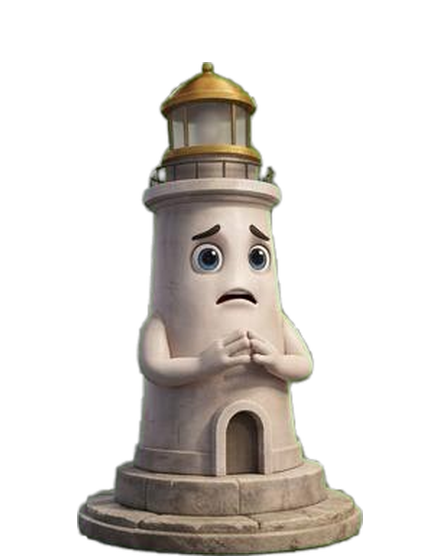
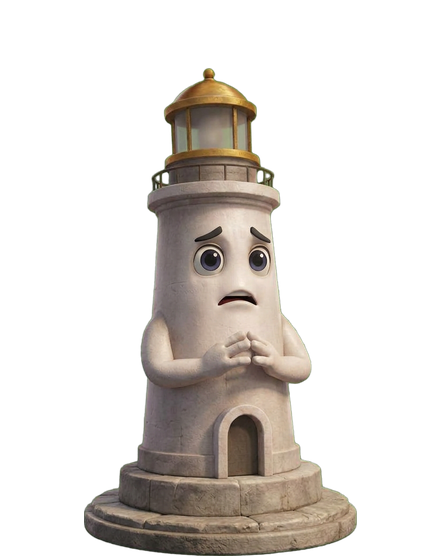
Immagini di Nano Banana: sfondi per ogni dispositivo (scuro e chiaro) e sette pose di Luma nuove; sfondi di sistema a più misure
Claude-Session: https://claude.ai/code/session_01VnBgzVWwMfYhH3oySQLrtR

Changed region(s): [[0.1773, 0.0911, 0.8273, 1.0]]

diff --git a/tools/genera_immagini.py b/tools/genera_immagini.py
@@ -4,10 +4,12 @@ La chiave di Google resta sul tuo computer (variabile GEMINI_API_KEY): non viene
 Uso:  python3 genera.py --prova     (fa UNA sola immagine per controllare che tutto funzioni)
       python3 genera.py             (fa tutte quelle che mancano)
       python3 genera.py sfondi      (solo gli sfondi)   |   python3 genera.py pose   (solo le pose)"""
-import base64, json, os, sys, time, urllib.request, urllib.error, zipfile
+import base64, json, os, subprocess, sys, time, urllib.request, urllib.error, zipfile
 
-CHIAVE = os.environ.get("GEMINI_API_KEY", "").strip()
-MODELLO = os.environ.get("MODELLO", "gemini-3-pro-image-preview")      # «Nano Banana Pro»: arriva fino a 4K. Alternativa piu' economica: gemini-2.5-flash-image
+CHIAVE = os.environ.get("GEMINI_API_KEY", "").strip()                   # solo se usi --aistudio (il servizio a prepagamento di AI Studio)
+USA_AISTUDIO = "--aistudio" in sys.argv
+MODELLO = os.environ.get("MODELLO", "gemini-nano-banana-2.1")           # il modello che su Vertex AI ha gia' funzionato per Luca
+REGIONE = os.environ.get("REGIONE", "global")
 QUI = os.path.dirname(os.path.abspath(__file__)); RIF = os.path.join(QUI, "riferimenti"); OUT = os.path.join(QUI, "uscita")
 SFONDI = [("pc-tv-16x9", "16:9", "4K"), ("pc-tablet-3x2", "3:2", "2K"), ("schermo-largo-21x9", "21:9", "2K"), ("tablet-verticale-3x4", "3:4", "2K"), ("telefono-9x16", "9:16", "2K"), ("orologio-quadrato", "1:1", "2K")]
 NOTE_FORMATO = {"pc-tv-16x9": "Per computer e televisione.", "pc-tablet-3x2": "Per computer e tablet.", "schermo-largo-21x9": "Per schermo molto largo: il logo resta al centro, la scena si allarga ai lati.",
@@ -20,14 +22,35 @@ POSE = [("neutra", "in posa neutra, ferma e serena, braccia lungo i fianchi"), (
 def immagine_b64(nome):
     with open(os.path.join(RIF, nome), "rb") as f: return base64.b64encode(f.read()).decode()
 
+_token = {"v": None}
+def gcloud(*args):
+    r = subprocess.run(["gcloud"] + list(args), capture_output=True, text=True)
+    if r.returncode != 0: raise RuntimeError((r.stderr or r.stdout).strip()[:300])
+    return r.stdout.strip()
+def token(rinnova=False):
+    if rinnova or not _token["v"]: _token["v"] = gcloud("auth", "print-access-token")
+    return _token["v"]
+def progetto():
+    return os.environ.get("PROGETTO") or gcloud("config", "get-value", "project")
+
 def chiedi(testo, riferimenti, rapporto, qualita):
-    parti = [{"text": testo}] + [{"inline_data": {"mime_type": "image/jpeg", "data": immagine_b64(r)}} for r in riferimenti]
-    corpo = {"contents": [{"parts": parti}], "generationConfig": {"responseModalities": ["IMAGE"], "imageConfig": {"aspectRatio": rapporto, "imageSize": qualita}}}
-    if "2.5" in MODELLO: corpo["generationConfig"]["imageConfig"].pop("imageSize")     # il modello economico non sceglie la qualita'
-    rq = urllib.request.Request("https://generativelanguage.googleapis.com/v1beta/models/%s:generateContent" % MODELLO, data=json.dumps(corpo).encode(),
-                                headers={"Content-Type": "application/json", "x-goog-api-key": CHIAVE})
+    parti = [{"text": testo}] + [{"inlineData": {"mimeType": "image/jpeg", "data": immagine_b64(r)}} for r in riferimenti]
+    cfg = {"responseModalities": ["TEXT", "IMAGE"], "imageConfig": {"aspectRatio": rapporto, "imageSize": qualita}}
+    corpo = {"contents": [{"role": "user", "parts": parti}], "generationConfig": cfg}
+    q = os.environ.get("QUALITA", "").strip()
+    if q.lower() in ("nessuna", "no"): cfg["imageConfig"].pop("imageSize")          # se il modello non accetta la dimensione, la tolgo
+    elif q: cfg["imageConfig"]["imageSize"] = q
+    if "2.5" in MODELLO: cfg["imageConfig"].pop("imageSize", None)
+    if USA_AISTUDIO:
+        url = "https://generativelanguage.googleapis.com/v1beta/models/%s:generateContent" % MODELLO
+        intest = lambda: {"Content-Type": "application/json", "x-goog-api-key": CHIAVE}
+    else:
+        host = "aiplatform.googleapis.com" if REGIONE == "global" else "%s-aiplatform.googleapis.com" % REGIONE
+        url = "https://%s/v1/projects/%s/locations/%s/publishers/google/models/%s:generateContent" % (host, progetto(), REGIONE, MODELLO)
+        intest = lambda: {"Content-Type": "application/json", "Authorization": "Bearer " + token()}
     for tentativo in range(4):
         try:
+            rq = urllib.request.Request(url, data=json.dumps(corpo).encode(), headers=intest())
             with urllib.request.urlopen(rq, timeout=300) as r: d = json.loads(r.read().decode())
             for c in d.get("candidates", []):
                 for p in c.get("content", {}).get("parts", []):
@@ -35,25 +58,35 @@ def chiedi(testo, riferimenti, rapporto, qualita):
                     if dati: return base64.b64decode(dati["data"])
             print("   nessuna immagine nella risposta:", json.dumps(d)[:300]); return None
         except urllib.error.HTTPError as e:
-            msg = e.read().decode(errors="replace")[:400]
+            msg = e.read().decode(errors="replace")[:500]
+            if e.code == 401 and not USA_AISTUDIO: print("   rinnovo il token…"); token(True); continue
             if e.code in (429, 500, 503): print("   il servizio e' occupato, riprovo tra poco…"); time.sleep(20 * (tentativo + 1)); continue
             print("   ERRORE %s: %s" % (e.code, msg)); return None
         except Exception as e:
-            print("   errore di rete:", e); time.sleep(10)
+            print("   errore:", e); time.sleep(10)
     return None
 
+errori_di_fila = 0
 def lavoro(nome, testo, rif, rapporto, qualita):
+    global errori_di_fila
     percorso = os.path.join(OUT, nome + ".png")
     if os.path.exists(percorso): print("gia' fatta:", nome); return True
+    if errori_di_fila >= 3: print("Mi fermo: 3 errori di fila. Controlla il messaggio qui sopra."); raise SystemExit(1)
     print("sto creando:", nome, "(%s, %s)" % (rapporto, qualita))
     dati = chiedi(testo, rif, rapporto, qualita)
-    if not dati: return False
+    if not dati: errori_di_fila += 1; time.sleep(5); return False
+    errori_di_fila = 0
     open(percorso, "wb").write(dati); print("   salvata:", percorso); return True
 
 def main():
-    if not CHIAVE:
-        print("Manca la chiave. In Terminale scrivi:  export GEMINI_API_KEY=\"la-tua-chiave\"   e poi rilancia."); return 1
+    if USA_AISTUDIO and not CHIAVE:
+        print("Con --aistudio serve la chiave: export GEMINI_API_KEY=..."); return 1
+    if not USA_AISTUDIO:
+        try: print("Uso Vertex AI, progetto:", progetto(), "- modello:", MODELLO, "- regione:", REGIONE)
+        except Exception as e: print("gcloud non risponde:", e); return 1
     os.makedirs(OUT, exist_ok=True); cosa = [a for a in sys.argv[1:] if not a.startswith("--")]; prova = "--prova" in sys.argv; fatte = 0
+    global errori_di_fila
+    errori_di_fila = 0
     if not cosa or "sfondi" in cosa:
         for tema, rif in (("scuro", "sfondo-scuro.jpg"), ("chiaro", "sfondo-chiaro.jpg")):
             for nome, rapporto, q in SFONDI:

diff --git a/tools/elabora_immagini.py b/tools/elabora_immagini.py
@@ -1,0 +1,66 @@
+#!/usr/bin/env python3
+"""Elabora le immagini di Nano Banana (cartella con sfondo-*.png e luma-*.png): sfondi nelle misure di ogni dispositivo, pose di Luma senza il verde.
+Uso: elabora_immagini.py CARTELLA_IMMAGINI CARTELLA_INCLUDES"""
+import os, sys
+import numpy as np
+from PIL import Image, ImageFilter
+src, inc = sys.argv[1], sys.argv[2]
+P = lambda *a: os.path.join(inc, *a)
+def ingrandisci(im, w, h):
+    """ritaglia nel rapporto giusto e ingrandisce con una leggera nitidezza"""
+    r = w / h; iw, ih = im.size
+    if iw / ih > r: nw = int(ih * r); im = im.crop(((iw - nw) // 2, 0, (iw - nw) // 2 + nw, ih))
+    else: nh = int(iw / r); im = im.crop((0, (ih - nh) // 2, iw, (ih - nh) // 2 + nh))
+    im = im.resize((w, h), Image.LANCZOS)
+    return im.filter(ImageFilter.UnsharpMask(radius=1.6, percent=60, threshold=2))
+# 1) sfondi per i dispositivi (cartella docs/assets/sfondi/dispositivi) e per il desktop del sistema
+FORMATI = {"pc-tv-16x9": (3840, 2160), "pc-tablet-3x2": (2560, 1600), "schermo-largo-21x9": (3440, 1440), "tablet-verticale-3x4": (1668, 2224), "telefono-9x16": (1440, 2560), "orologio-quadrato": (1080, 1080)}
+os.makedirs("docs/assets/sfondi/dispositivi", exist_ok=True)
+for tema in ("scuro", "chiaro"):
+    for nome, (w, h) in FORMATI.items():
+        f = os.path.join(src, "sfondo-%s-%s.png" % (tema, nome))
+        if not os.path.exists(f): continue
+        im = ingrandisci(Image.open(f).convert("RGB"), w, h)
+        im.save("docs/assets/sfondi/dispositivi/sfondo-%s-%s.jpg" % (tema, nome), quality=93)
+    cartella = P("usr/share/wallpapers", "SofiOS" if tema == "scuro" else "SofiOSChiaro", "contents/images")
+    for g in os.listdir(cartella):
+        os.remove(os.path.join(cartella, g))
+    for nome, dim in (("pc-tv-16x9", (1920, 1080)), ("pc-tv-16x9", (3840, 2160)), ("pc-tablet-3x2", (2560, 1600)), ("schermo-largo-21x9", (3440, 1440))):
+        f = os.path.join(src, "sfondo-%s-%s.png" % (tema, nome))
+        if os.path.exists(f): ingrandisci(Image.open(f).convert("RGB"), *dim).save(os.path.join(cartella, "%dx%d.jpg" % dim), quality=92)
+    base = Image.open(os.path.join(src, "sfondo-%s-pc-tv-16x9.png" % tema)).convert("RGB")
+    prev = P("usr/share/plasma/look-and-feel", "org.sofios.desktop" if tema == "scuro" else "org.sofios.light", "contents/previews")
+    base.resize((800, 450), Image.LANCZOS).save(prev + "/preview.png"); ingrandisci(base, 1920, 1080).save(prev + "/fullscreenpreview.jpg", quality=90)
+    ingrandisci(base, 1920, 1080).save("docs/assets/sfondi/%s.jpg" % tema, quality=94)
+    # anteprime per l'installatore
+    base.resize((640, 360), Image.LANCZOS).save(P("usr/share/sofios/aspetto", tema + ".png"), optimize=True)
+# 2) pose di Luma: via il verde, stessa grandezza e piedi allineati
+def chiave(im):
+    a = np.asarray(im.convert("RGB")).astype(float); r, g, b = a[..., 0], a[..., 1], a[..., 2]
+    dist = np.clip((g - np.maximum(r, b)) / 200.0, 0, 1); alpha = 1 - np.clip((dist - 0.12) / 0.20, 0, 1)
+    g2 = np.where(dist > 0.04, np.minimum(g, np.maximum(r, b) * 1.02 + 2), g)
+    out = Image.fromarray(np.dstack([r, g2, b, alpha * 255]).astype(np.uint8), "RGBA")
+    al = out.split()[3].point(lambda v: 0 if v < 24 else v).filter(ImageFilter.GaussianBlur(0.5)); out.putalpha(al); return out
+NOMI = ("neutra", "saluta", "parla", "ascolta", "pensa", "felice", "concentrata", "preoccupata")
+pose = {}
+for n in NOMI:
+    f = os.path.join(src, "luma-%s.png" % n)
+    if os.path.exists(f): pose[n] = chiave(Image.open(f))
+if "concentrata" not in pose and os.path.exists("docs/assets/sofi/concentrata-originale.png"):
+    pose["concentrata"] = chiave(Image.open("docs/assets/sofi/concentrata-originale.png"))
+info = {}
+for n, p in pose.items():
+    m = p.split()[3].point(lambda v: 255 if v > 60 else 0).filter(ImageFilter.MinFilter(3)).filter(ImageFilter.MaxFilter(3)); bb = m.getbbox()
+    p = p.crop(bb); mm = np.asarray(m.crop(bb)) > 0; basso = mm[int(mm.shape[0] * 0.85):]
+    cx = int(np.mean(np.where(basso)[1])) if basso.any() else p.width // 2          # centro della base: i piedi stanno fermi tra una posa e l'altra
+    info[n] = (p, cx)
+altezza_rif = np.median([p.height for p, _ in info.values()])
+s = 500.0 / max(p.height for p, _ in info.values())
+os.makedirs("docs/assets/sofi", exist_ok=True)
+for n, (p, cx) in info.items():
+    f = altezza_rif / p.height if n == "concentrata" and "luma-concentrata.png" not in os.listdir(src) else 1.0      # la posa nata a parte la porto alla stessa grandezza delle altre
+    p2 = p.resize((int(p.width * s * f), int(p.height * s * f)), Image.LANCZOS); cx2 = int(cx * s * f)
+    tela = Image.new("RGBA", (440, 560), (0, 0, 0, 0)); tela.alpha_composite(p2, (220 - cx2, 560 - p2.height - 4))
+    tela.save(P("usr/share/plasma/plasmoids/org.sofios.mascotte/contents/images/sofi-%s.png" % n), optimize=True); tela.save("docs/assets/sofi/sofi-%s.png" % n, optimize=True)
+    p.save("docs/assets/sofi/luma-%s-ritagliata.png" % n, optimize=True)
+print("ok", sorted(pose))
